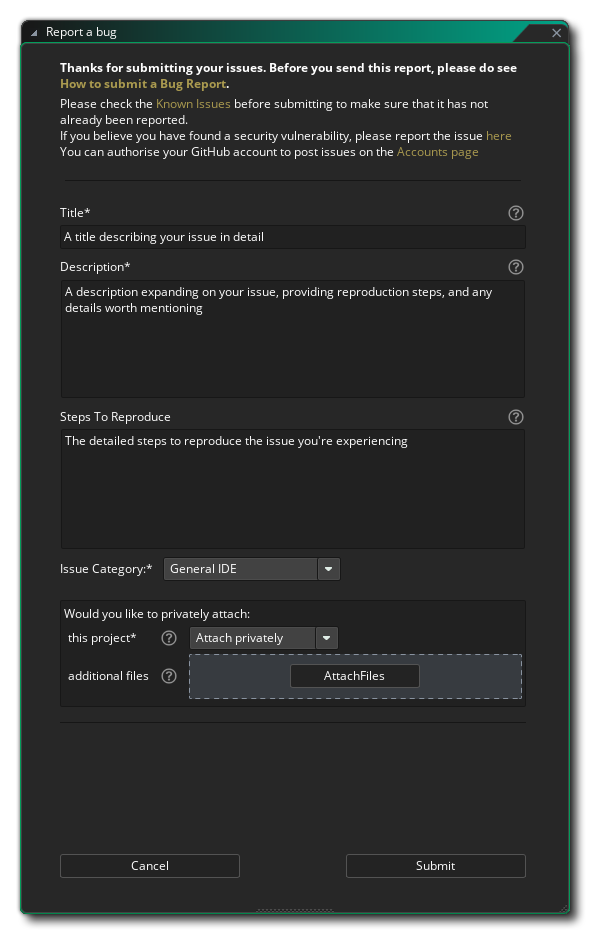
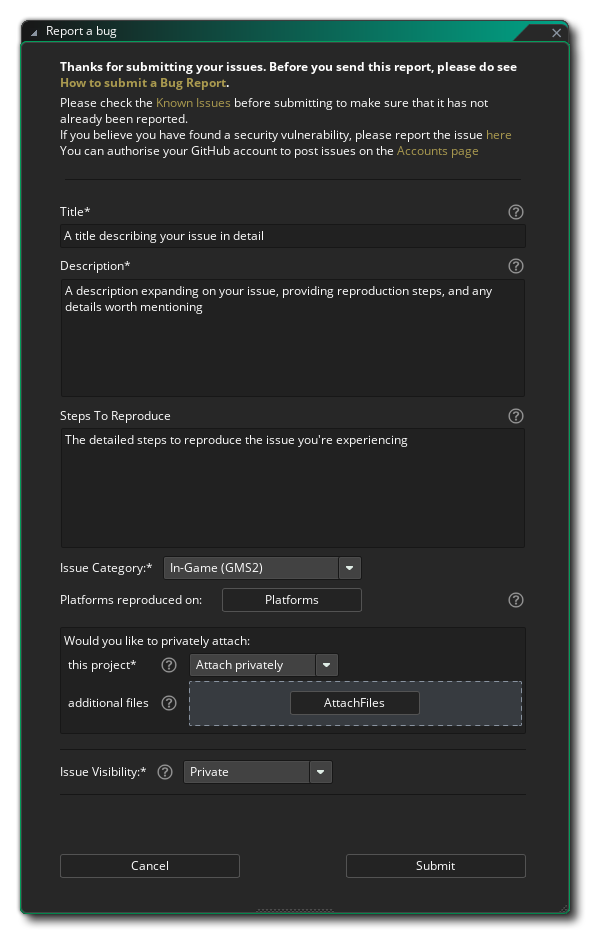
docs(feature): changes to "Reporting Errors" manual page YoYoGames/YoYoStudio#11819 YoYoGames/YoYoStudio#11820 YoYoGames/YoYoStudio#11821 YoYoGames/YoYoStudio#11818
Updated the "Report a bug" screenshot and the description of the fields below it
("Platforms reproduced on" and "Issue Visibility" were added)

diff --git a/Manual/contents/Setting_Up_And_Version_Information/Error_Reporting.htm b/Manual/contents/Setting_Up_And_Version_Information/Error_Reporting.htm
@@ -23,8 +23,9 @@
   <p>The <a href="../IDE_Navigation/Menus/The_Help_Menu.htm">Help</a> -&gt; <strong>Report a GameMaker Bug</strong> option will open a window where you can create a bug report from within the IDE. If you&#39;re not signed in, a message is shown to ask you to <strong>Sign In/Register</strong>. It&#39;s also possible to <strong>Continue Anonymously</strong>.<br />
     <img class="center" src="../assets/Images/IDE_Input/Help_Menu_Report_Bug_Anonymous.png" style="cursor: nwse-resize;" />If you are using a <span data-keyref="GameMaker Name">GameMaker</span> account, it is recommended to connect your GitHub account to your GM account via the <a href="https://gamemaker.io/account/dashboard">GameMaker Account Dashboard</a>. This will ensure your submitted reports are tied to your account so you can post updates and receive notifications from our team.
   </p>
-  <p><img class="center" src="../assets/Images/IDE_Input/Help_Menu_Report_Bug_Window.png" />In the <strong>Report a Bug</strong> window you must fill the <strong>Title</strong> and <strong>Description</strong>. You should also enter <strong>Steps To Reproduce</strong> the issue however that is optional. You must assign an <strong>Issue Category</strong>.</p>
+  <p><img class="center" src="../assets/Images/IDE_Input/Help_Menu_Report_Bug_Window.png" />In the <strong>Report a Bug</strong> window you must fill the <strong>Title</strong> and <strong>Description</strong>. You should also enter <strong>Steps To Reproduce</strong> the issue however that is optional. You must assign an <strong>Issue Category</strong>. If you select a category related to build or in-game issues here, you will additionally be asked for the <strong>Platforms reproduced on</strong>.</p>
   <p>You also have the option to <b>Privately attach this project</b>, which is generally required for many kinds of bug reports. You can also attach any additional files that may help your bug report.</p>
+  <p>Lastly you can set what the <strong>Issue Visibility</strong> of the issue itself should be.</p>
   <p class="note"><span data-conref="../assets/snippets/Tag_note.hts"> </span> Any files attached via the Bug Reporter are uploaded privately, only accessible by the <span data-keyref="GameMaker Name">GameMaker</span> team, even when the bug is public.</p>
   <p class="note"><span data-conref="../assets/snippets/Tag_tip.hts"> </span> If you forgot to attach your project or any additional files with this dialog, you can use the <strong>Upload a Bug/Ticket Sample</strong> option in the <a href="../IDE_Navigation/Menus/The_Help_Menu.htm">Help menu</a> to upload those files and get a link that you can add to your issue.</p>
   <p>As mentioned in the window, you should first check the list of <a href="https://github.com/YoYoGames/GameMaker-Bugs/issues">Known Issues</a> before submitting. You also have the possibility to report a <a href="https://github.com/YoYoGames/GameMaker-Bugs/security/policy">security vulnerability</a>.</p>
@@ -39,10 +40,10 @@
     <div class="buttons">
       <div class="clear">
         <div style="float:left">Back: <a href="../The_IDE/Preferences_And_Information/Preferences_And_Features.htm">IDE Preferences &amp; Features</a></div>
-        <div style="float:right">Next: <a data-xref="{title}" href="../IDE_Tools/Compiling_&amp;_Runtime.htm">Compiling &amp; Runtime</a></div>
+        <div style="float:right">Next: <a data-xref="{title}" href="../IDE_Tools/Compiling_&amp;_Runtime.htm">Compiling &amp; Running</a></div>
       </div>
     </div>
-    <h5><span data-keyref="Copyright Notice">© Copyright YoYo Games Ltd. 2024 All Rights Reserved</span></h5>
+    <h5><span data-keyref="Copyright Notice">© Copyright YoYo Games Ltd. 2025 All Rights Reserved</span></h5>
   </div>
   <!-- KEYWORDS
 Release Notes
